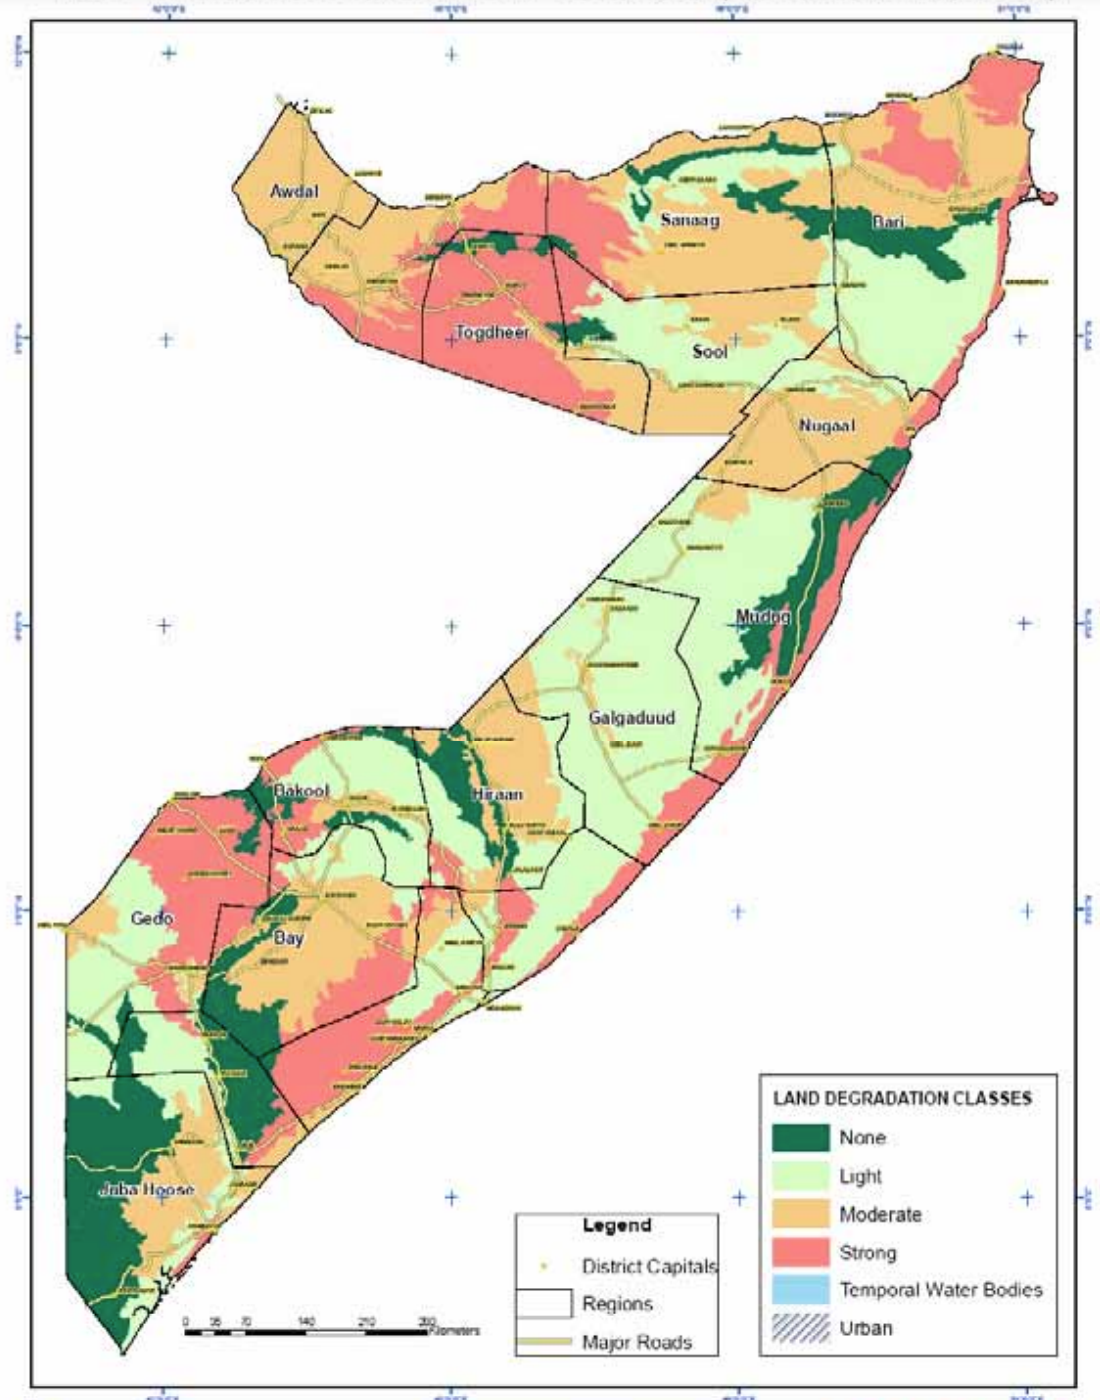
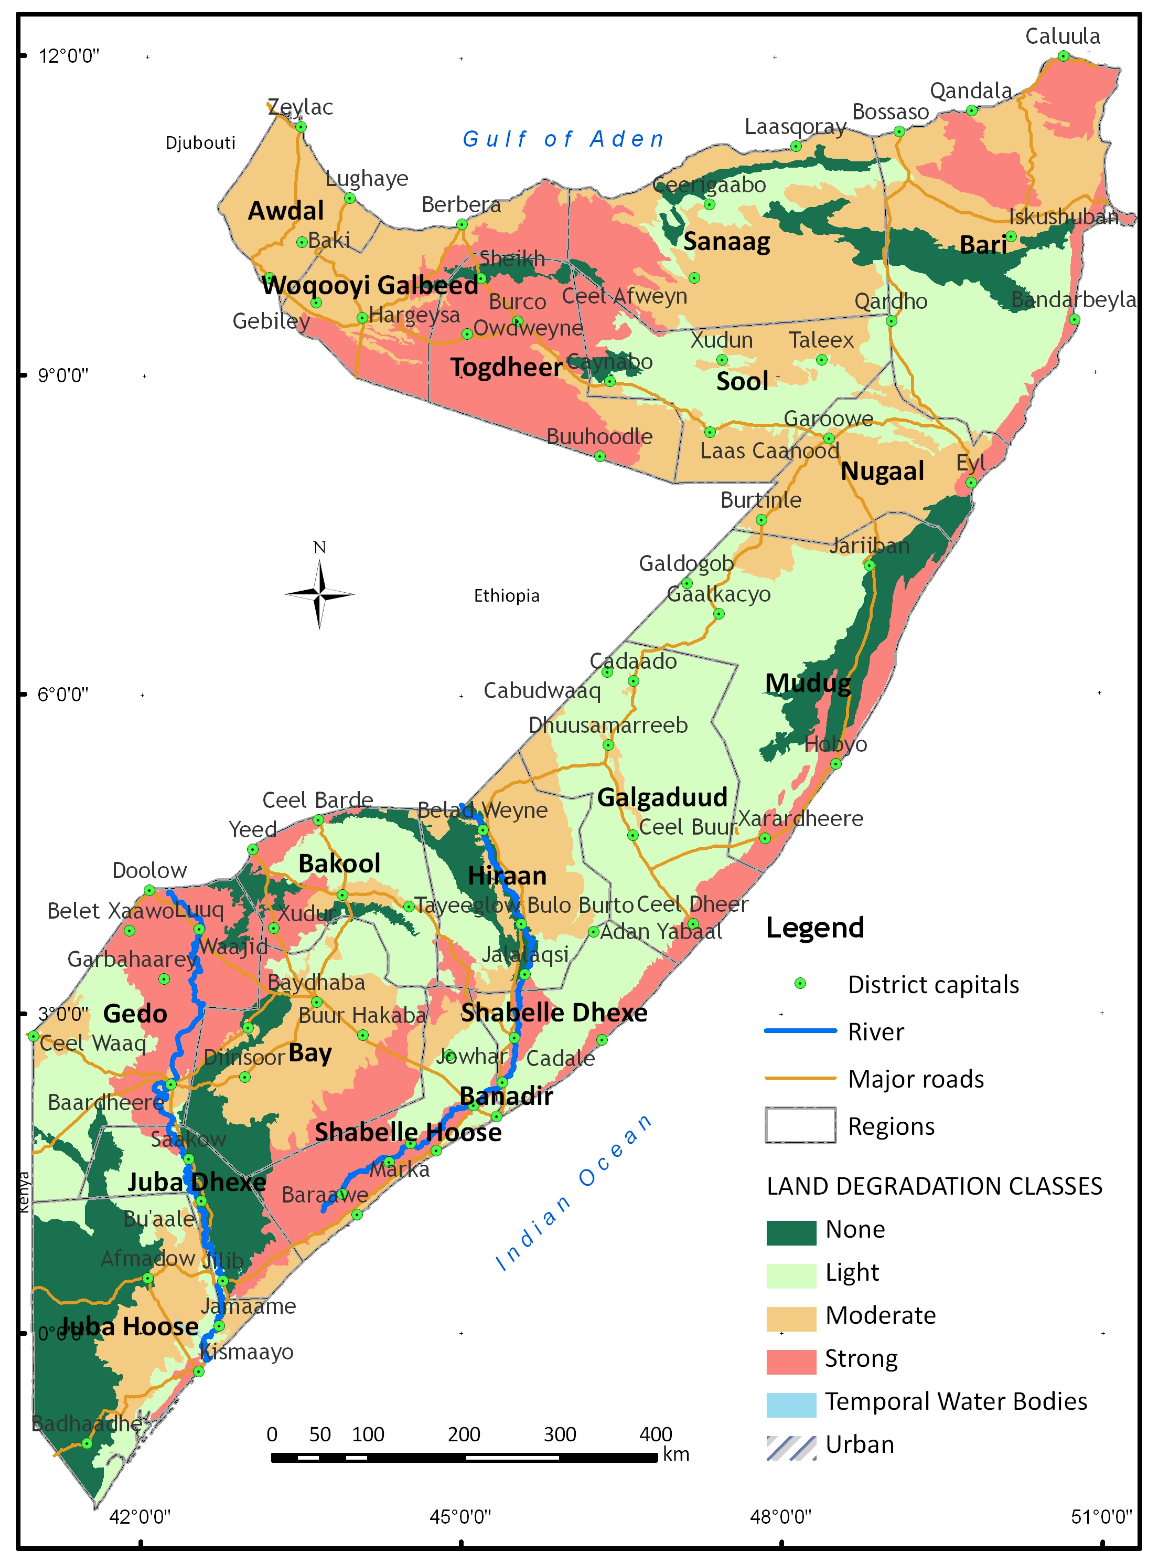
update to georef exercise and module chapter

diff --git a/content/Modul_3/en_module_3_ex_5_georeferencing.md b/content/Modul_3/en_module_3_ex_5_georeferencing.md
@@ -93,6 +93,7 @@ __Available Data:__
 ^^^
 
 - `SOM_soil_deg.png` - A picture of a soil degradation map of Somalia taken out of a PDF report (Source: [FAO SWALIM](https://www.faoswalim.org/resources/site_files/L-14%20Land%20Degradation%20and%20a%20Monitoring%20Framework%20in%20Somalia_0.pdf))
+- `som_admbnda_adm1_ocha_20230308.gkpg` - A vector layer with the 
 
 :::
 
@@ -109,13 +110,18 @@ width: 500 px
 Soil degradation in Somalia
 ```
 
-### Step 1: Adding a basemap
+### Step 1: Adding a basemap and loading the vector layer
+
+Georeferencing is done by connecting the points on the map that will be georeferenced to coordinates on your map canvas in QGIS. Adding a basemap or a reference layer to your QGIS project will help you to identify the corresponding coordinates.
 
 1. Add a basemap using either XYZ-tiles or the [QuickMapServices Plugin](/content/Wiki/en_qgis_basemaps_wiki.md)
+2. Import the `som_admbnda_adm1_ocha_20230308`-layer to the QGIS project. 
 
 ### Step 2: Georeferencing the map
 
-2. Open the Georeferencer by navigating to the Top Bar > `Layer` > `Georeferencer` (see {numref}`open_georeferencer`)
+Now that we prepared our QGIS-project, let's start georeferencing the map.
+
+3. Open the Georeferencer by navigating to the Top Bar > `Layer` > `Georeferencer` (see {numref}`open_georeferencer`)
 
 ```{figure} /fig/en_3.36_open_georefencer.png
 ---
@@ -125,19 +131,25 @@ width: 500 px
 Opening the Georeferencer in QGIS 3.36
 ```
 
-3. A new window will open. This is the __georeferencer__. To add an image to georeference, click on ![](/fig/3.36_add_raster_georef.png) `Open Raster`.
-4. Select the image of the map you want to georeference. Click `Open` (`Module_3_Exercise_7_Georeferencing/data/input`). 
-5. The image will appear in the middle of the georeferencer window. Click on ![](/fig/3.36_georef_transformation_settings.png) `Transformation settings...`.
-6. A new window will open. Here you can set the transformation type and the target CRS. Below, you can set the name and save location of the file. Make sure that the `Load in project when done` is checked. 
+4. A new window will open. This is the __georeferencer__. To add an image to georeference, click on ![](/fig/3.36_add_raster_georef.png) `Open Raster`.
+5. Select the image of the map you want to georeference. Click `Open` (`Module_3_Exercise_7_Georeferencing/data/input`). 
+6. The image will appear in the middle of the georeferencer window. Click on ![](/fig/3.36_georef_transformation_settings.png) `Transformation settings...`.
+7. A new window will open. Here you can set the transformation type and the target CRS. For our purpose, we will use the linear transformation type. As the target CRS (Coordinate Reference System), we want to use the same as for our other data. In our case, we can use EPSG:4326. Below, you can set the name and save location of the file. Make sure that the `Load in project when done` is checked. 
+::::{margin}
 
-7. Click on `Ok`. 
-8. Once you have set the transformation type, you can start adding Ground Control Points (GCP) by clicking on ![](/fig/3.36_georef_add_point.png) `Add Point`. Ground Control Points are points that you ascribe specific geographic coordinates. 
-9. Click on a point on the map image. This will be the precise location that you can identify on both the basemap and the map you wish you georeference. 
-10. Once you clicked on a position, a new window will appear. Here, you add the coordinates to the point you selected. There are two options to do this:  
+```{note}
+In most cases, you can leave the transformation type on `linear`. Regional maps are usually in a conformal projection (i.e. the angles are preserved). Satellite imagery as well. If you realise that the angles are not true, or the map is deformed or distorted, you may need to choose `polynomial` as transformation type. Polynomial transformations need more Ground Control Points and the points need to be distributed evenly across the map.
+```
+
+::::
+8. Click on `Ok`. 
+9. Once you have set the transformation type, you can start adding Ground Control Points (GCP) by clicking on ![](/fig/3.36_georef_add_point.png) `Add Point`. Ground Control Points are points that you ascribe specific geographic coordinates. 
+10. Click on a point on the map image. This will be the precise location that you can identify on both the basemap and the map you wish you georeference. 
+11. Once you clicked on a position, a new window will appear. Here, you add the coordinates to the point you selected. There are two options to do this:  
     - Enter the coordinates manually. You will need to know the exact coordinate. Sometimes, you have a coordinate grid on maps where you can 
     - Select the points ![](/fig/en_3.36_georef_select_from_canvas.png). This mode will minimize the georeferencer and open the QGIS Map canvas. Zoom to the same location you selected on the non-georeferenced map and Click once.
     - Once the coordinates are entered, click `Ok`
-11. The georeferencer window will open again. This time, below the map image, you can see a point in the table. These are the Ground Control Points. Continue adding more GCP. Spread them out over the entire map. Make sure that the `Mean error` in the bottom right corner of the georeferencer window is as low as possible (below 5 is ideal). 
+12. The georeferencer window will open again. This time, below the map image, you can see a point in the table. These are the Ground Control Points. Continue adding more GCP. Spread them out over the entire map. Make sure that the `Mean error` in the bottom right corner of the georeferencer window is as low as possible (below 5 is ideal). 
 
 ```{figure} /fig/en_3.36_georef_dialogue_GCP.png
 ---
@@ -147,9 +159,9 @@ name: georeferencer_dialogue
 Georeferencer dialogue in QGIS 3.36
 ```
 
-12. Once you have added enough points, click on ![](/fig/3.36_start_georef.png) `Start Georeferencing`. QGIS will use the Points you added to transform the image into a georeferenced image, where every pixel has GPS coordinates ascribed to it. 
-13. You can close the georefencer window. Decide wether you want to save the GPC points in a file. If you are not sure if your georeferencing accuracy was precise enough, save the GPC points so you don't have to do all the work again. 
-14. Congratulations, the georeferenced map will now appear as a raster layer in your QGIS-project
+13. Once you have added enough points, click on ![](/fig/3.36_start_georef.png) `Start Georeferencing`. QGIS will use the Points you added to transform the image into a georeferenced image, where every pixel has GPS coordinates ascribed to it. 
+14. You can close the georefencer window. Decide wether you want to save the GPC points in a file. If you are not sure if your georeferencing accuracy was precise enough, save the GPC points so you don't have to do all the work again. 
+15. Congratulations, the georeferenced map will now appear as a raster layer in your QGIS-project
 
 
 ```{figure} /fig/en_3.36_finished_georef.png
@@ -164,7 +176,38 @@ A georeferenced map of Somalia in the QGIS Map Canvas
 
 Now that we have the georeferenced map, we can __set the transparency__ so that we can see other layers or the basemap underneath: 
 
-15. <kbd>Right-Click</kbd> on the layer of the georeferenced map. 
-16. Select `Properties`.
-17. Navigate to the __Symbology Tab__ (see {numref}` `).
-18. 
+16. <kbd>Right-Click</kbd> on the layer of the georeferenced map. 
+17. Select `Properties`.
+18. Navigate to the __Transparency tab__.
+19. Set the transparency to 50%.
+20. Click on `Apply`.
+
+Now we are able to see the underlying layers. We can also check the accuracy of our georeferencing by comparing the lines of the administrative boundaries of both layers.
+
+### *Optional* Step 4: Digitising vector features using the georeferenced map
+
+Now that we have the map georeferenced, we can use it as a background layer to digitise vector features, such as a polygon indicating a region where the soil degradation is severe.
+
+21. Create a new shapefile layer (see [digitisation](https://giscience.github.io/gis-training-resource-center/content/Modul_3/en_qgis_digitalisation.html#creating-new-datasets)). Click on `Layer` > `Create Layer` > `Create new Shapefile Layer` (You can also choose to create a new Geopackage Layer).
+22. A new dialogue window will open. First, we need to specify the save location of the new dataset. 
+    1. Click on ![](/fig/3.36_three_dots.png) to the right of the `File Name`-field. 
+    2. Navigate to the data output folder (`Module_3_Exercise_7_Georeferencing/data/output`).
+    3.  Enter a name for the dataset. 
+    4. Click `Save`.
+23. Set the `Geometry Type` to `Polygon`.
+24. Let's add a field (column in the attribute table) so we can add information about the soil degradation type: 
+    1. Under `New field`, add a name, for example, `soil_deg`. We want strangers to be able to identify the type of information stored in that column. 
+    2. Leave the type on String (text).
+    3. Click on `Add to field list`. 
+25. Finish creating the dataset by clicking on `Ok`. The layer will be added to your layers-panel.
+26. Now, let's create a new polygon feature: 
+    1. Select the new layer in the layers-panel.
+    2. Activate the editing mode by clicking on ![](/fig/en_editing_mode.png).
+    3. Click on ![](/fig/mActionCapturePolygon.png) in the digitisation toolbar to create a new polygon.
+    4. Start tracing the outline of a field where the soil degradation is severe (in red) by setting multiple points (<kbd>Left-Click</kbd>)
+    5. Once you are done tracing the outline, finish creating the feature by <kbd>Right-Clicking</kbd>.
+    6. A new dialogue window will pop up. Here you can enter the attributes for the newly created polygon feature. Under `soil_deg`, enter "severe". 
+    7. Click ok.
+
+Congratulations, we now have digitised a map and digitised vector features we can now use for further analysis!
+

diff --git a/content/Modul_3/en_qgis_georeferencing.md b/content/Modul_3/en_qgis_georeferencing.md
@@ -84,7 +84,7 @@ Opening the Georeferencer in QGIS 3.36
 ::::{margin}
 
 ```{note}
-In most cases, you can leave the transformation type on `linear`. Regional maps are usually in a conformal projection (i.e. the angles are preserved). Satellite imagery as well. If you realise that the angles are not true, or the map is deformed, you may need to choose `polynomial` as transformation type. 
+In most cases, you can leave the transformation type on `linear`. Regional maps are usually in a conformal projection (i.e. the angles are preserved). Satellite imagery as well. If you realise that the angles are not true, or the map is deformed or distorted, you may need to choose `polynomial` as transformation type. Polynomial transformations need more Ground Control Points and the points need to be distributed evenly across the map.
 ```
 
 ::::
